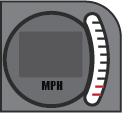
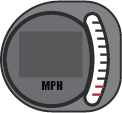
sedsdfghj

Changed region(s): [[0.0, 0.0, 0.4918, 0.5044], [0.0, 0.5575, 0.4426, 1.0], [0.6885, 0.6903, 1.0, 1.0]]

diff --git a/src/GameOver.js b/src/GameOver.js
@@ -10,35 +10,65 @@ class GameOver extends Phaser.Scene {
 
     create() {
         // Add "Game Over" text
-        this.add.text(width / 2, height / 2 - 100, 'Game Over', {
-            fontSize: '64px',
-            fill: '#ff0000',
-            fontFamily: 'Arial'
-        }).setOrigin(0.5);
-
+        
+            this.background = this.add.tileSprite(0, 0, 640, 480, 'background')
+            .setOrigin(0, 0)
+            .setScale(2);
+            this.logo = this.add.image(this.cameras.main.width / 2, this.cameras.main.height / 2-150, 'wasted')
+            .setScale(1.5);
         // Show time survived
         this.add.text(width / 2, height / 2, `Time Survived: ${this.timeSurvived}s`, {
             fontSize: '32px',
             fill: '#ffffff',
-            fontFamily: 'Arial'
+            fontFamily: 'Orbitron'
         }).setOrigin(0.5);
 
         // Show high score
         this.add.text(width / 2, height / 2 + 50, `High Score: ${this.highScore}s`, {
             fontSize: '32px',
             fill: '#00ff00',
-            fontFamily: 'Arial'
+            fontFamily: 'Orbitron'
         }).setOrigin(0.5);
 
         // Restart Button
-        const restartButton = this.add.text(width / 2, height / 2 + 150, 'Restart', {
-            fontSize: '32px',
-            fill: '#ffffff',
-            fontFamily: 'Arial'
-        }).setOrigin(0.5).setInteractive();
 
-        restartButton.on('pointerdown', () => {
-            this.scene.start('playScene'); // Restart the game
+        let playButton = this.add.image(game.config.width / 2, game.config.height / 2 + 250, 'offbutton') // Default button image
+        .setOrigin(0.5)
+        .setScale(2)
+        .setInteractive()
+        .on('pointerover', () => {
+            playButton.setTexture('onbutton'); // Change to hover image
+        })
+        .on('pointerout', () => {
+            playButton.setTexture('offbutton'); // Revert to default image
+        })
+        .on('pointerdown', () => {
+            this.scene.start('playScene'); // Start the game when clicked
         });
+        let playText = this.add.text(playButton.x, playButton.y, 'RESTART', {
+            fontFamily: 'Orbitron',
+            fontSize: '35px',
+            color: '#000000'
+        }).setOrigin(0.5);
+        let backButton = this.add.image(game.config.width / 2, game.config.height / 2 + 350, 'offbutton') // Default button image
+        .setOrigin(0.5)
+        .setScale(2)
+        .setInteractive()
+        .on('pointerover', () => {
+            backButton.setTexture('onbutton'); // Change to hover image
+        })
+        .on('pointerout', () => {
+            backButton.setTexture('offbutton'); // Revert to default image
+        })
+        .on('pointerdown', () => {
+            this.scene.stop('playScene'); // Start the game when clicked
+            this.scene.start('backgroundScene'); // Start the game when clicked
+        });
+
+        let backText = this.add.text(backButton.x, backButton.y, 'BACK', {
+            fontFamily: 'Orbitron',
+            fontSize: '40px',
+            color: '#000000'
+        }).setOrigin(0.5);
     }
 }

diff --git a/src/Play.js b/src/Play.js
@@ -29,10 +29,19 @@ class Play extends Phaser.Scene {
         this.reloadTime = 2000;
         this.isReloading = false;
         this.ammoUI = [];
+
+        
     }
 
     createUI() {
         // Ammo UI
+
+        for (let i = 0; i < this.maxAmmo; i++) {
+            let backing = this.add.image(450 + i * 30, 720, 'shellback')
+                .setScale(0.75)
+                .setScrollFactor(0)
+                .setDepth(9);
+            }
         for (let i = 0; i < this.maxAmmo; i++) {
             let bulletIcon = this.add.image(450 + i * 30, 720, 'ammo_ui')
                 .setScale(0.75)
@@ -57,7 +66,6 @@ class Play extends Phaser.Scene {
 
         this.scene.setVisible(false, "backgroundScene"); // Hide the background scene
         if (gameSettings.music) {
-            gameSettings.music.stop(); // Stops the music
         }
 
         this.copSpawnTimer = this.time.addEvent({
@@ -329,9 +337,12 @@ class Play extends Phaser.Scene {
 
 
     fireShotgun() {
+        //sounds:
+        
         if (this.isReloading || this.ammo <= 0) return;
     
         this.ammo--;
+        this.sound.play('blast')
         this.updateAmmoUI();
     
         const numPellets = 10;
@@ -759,7 +770,8 @@ gameOver() {
         this.player.setVisible(false); // Hide the player
         this.cameras.main.shake(500, 0.05); // Add a camera shake effect
         this.time.delayedCall(1000, () => {
-            this.scene.restart(); // Restart the scene after 1 second
+            this.scene.pause(); // Pause Play instead of stopping
+            this.scene.launch('gameOver'); // Launch Game Over scene as an overlay
         }, [], this);
     }
 }

diff --git a/src/clicktostart.js b/src/clicktostart.js
@@ -55,13 +55,17 @@ class clicktostart extends Phaser.Scene {
         this.load.image('smoke', 'smoke.png')
         this.load.image('bullet', 'bullet.png');
         this.load.image('ammo_ui', 'shotgunshell.png');
+        this.load.image('shellback', 'shotguninstert.png');
+
         this.load.image('cone', 'cone.png');
         this.load.image('WALRUS', 'walrus.png');
         this.load.image('HP_bar','speedometer.png')
+        this.load.image('wasted', 'WALRUSED.png')
 
         // credit 
         this.load.image('offbutton', 'selectbuttoff.png')
         this.load.image('onbutton', 'selectbutton.png')
+        
 
         //play sound effects:
         this.load.audio('crash', 'realCrash.mp3')
